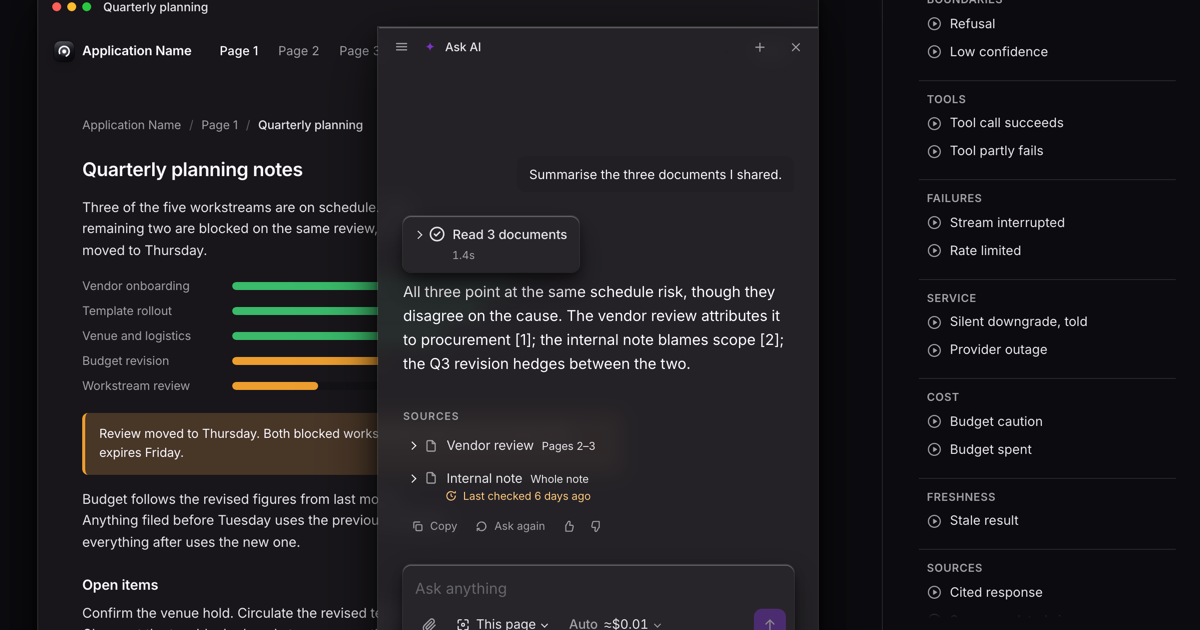
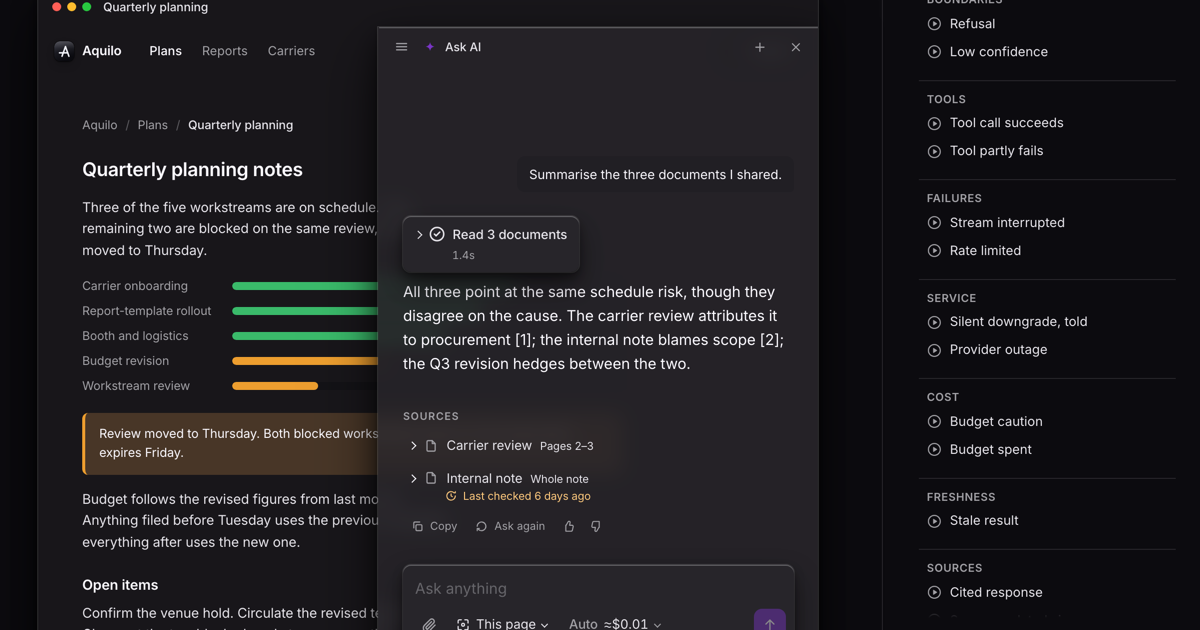
Name the universe: Northbound and Aquilo, with the wind-stroke mark
The host becomes Aquilo, Northbound's internal planning tool: window
title, sidebar identity (Northbound), breadcrumb Aquilo / Plans /
Quarterly planning, nav Plans / Reports / Carriers, the Carriers page
as a carrier directory. Freight nouns sweep everywhere the demo means
freight partners — carrier review, carrier quotes, carrier
onboarding — across the opener, scenarios, fixtures, sidebar threads,
and the workstream chart. Survivors, judged by sentence: the print
supplier's vendor quote in the cited-response scenarios, model-vendor
prose in reducer and lab comments, in-document Page 2 locators, and
the invisible src-vendor id.

The tile's orb-ring glyph gives way to the Aquilo mark — a geometric
A whose crossbar overshoots left as a single wind stroke — on the
same plate, in the tile's own hardware ink (the plate is always dark;
inheriting theme ink would go illegible in light). Both tiles are the
one component. OG image regenerated on the finished universe; sidebar
width floor, sources grammar, separator rule, and fold re-verified
with the longer strings at drawer and mobile widths.

diff --git a/apps/docs/src/App.tsx b/apps/docs/src/App.tsx
@@ -65,30 +65,30 @@ type View = 'full' | 'drawer' | 'mobile'
  */
 const MOCK_PAGES = [
   {
-    tab: 'Page 1',
+    tab: 'Plans',
     doc: 'Quarterly planning',
     ladder: [
       { id: 'page', label: 'This page', summary: 'Quarterly planning — the plan and its 4 linked notes', itemCount: 5 },
       { id: 'section', label: 'Plans', summary: 'Everything filed under Plans', itemCount: 12 },
-      { id: 'all', label: 'Everything', summary: 'All of Application Name', itemCount: 48 },
+      { id: 'all', label: 'Everything', summary: 'All of Aquilo', itemCount: 48 },
     ],
   },
   {
-    tab: 'Page 2',
+    tab: 'Reports',
     doc: 'Reports review',
     ladder: [
       { id: 'page', label: 'This page', summary: 'Reports review — the summary and its 2 appendices', itemCount: 3 },
       { id: 'section', label: 'Reports', summary: 'Everything filed under Reports', itemCount: 9 },
-      { id: 'all', label: 'Everything', summary: 'All of Application Name', itemCount: 48 },
+      { id: 'all', label: 'Everything', summary: 'All of Aquilo', itemCount: 48 },
     ],
   },
   {
-    tab: 'Page 3',
-    doc: 'Library index',
+    tab: 'Carriers',
+    doc: 'Carrier directory',
     ladder: [
-      { id: 'page', label: 'This page', summary: 'Library index — the catalogue itself', itemCount: 1 },
-      { id: 'section', label: 'Library', summary: 'Everything filed under Library', itemCount: 27 },
-      { id: 'all', label: 'Everything', summary: 'All of Application Name', itemCount: 48 },
+      { id: 'page', label: 'This page', summary: 'Carrier directory — the directory itself', itemCount: 1 },
+      { id: 'section', label: 'Carriers', summary: 'Everything filed under Carriers', itemCount: 27 },
+      { id: 'all', label: 'Everything', summary: 'All of Aquilo', itemCount: 48 },
     ],
   },
 ] as const
@@ -419,7 +419,7 @@ function AppCore({
              APPLICATION. (A live thread-title version was tried here and
              read as odd chrome — the conversation's name belongs to inner
              surfaces, and the phone header will take it.) */}
-          <span className="cfg__frame-title">Application Name</span>
+          <span className="cfg__frame-title">Aquilo</span>
         </div>
       )}
 
@@ -519,8 +519,14 @@ function AppCore({
   )
 }
 
-/** The B2 orb-ring tile — the mark Lucet tried on and set aside. The
- * fake universe's ONE brand: every container is the same product. */
+/** THE AQUILO MARK on the universe's ONE tile: a geometric A whose
+ * crossbar overshoots left as a single wind stroke. The plate and its
+ * sheen stay from the B2 treatment; only the glyph changed. Set
+ * dressing, one colour — the mark wears the tile's own hardware ink
+ * (the literal the orb-ring wore before it), because the plate is
+ * always dark and inheriting the theme's ink would go illegible in
+ * light. Every container shows the same product, so both tiles are
+ * this one component. */
 function MockBrandMark({ idp = 'fbm' }: { idp?: string }) {
   return (
     <svg className="cfg__mock-logo" viewBox="0 0 96 96">
@@ -535,33 +541,23 @@ function MockBrandMark({ idp = 'fbm' }: { idp?: string }) {
           <stop offset="0.38" stopColor="#fff" stopOpacity="0.02" />
           <stop offset="0.62" stopColor="#fff" stopOpacity="0" />
         </linearGradient>
-        <radialGradient id={`${idp}-h`}>
-          <stop offset="0" stopColor="#fff" stopOpacity="0.4" />
-          <stop offset="1" stopColor="#fff" stopOpacity="0" />
-        </radialGradient>
-        <radialGradient id={`${idp}-c`}>
-          <stop offset="0.6" stopColor="#fff" />
-          <stop offset="1" stopColor="#DDE0EC" />
-        </radialGradient>
         <clipPath id={`${idp}-k`}>
           <rect width="96" height="96" rx="27" />
         </clipPath>
       </defs>
       <rect width="96" height="96" rx="27" fill={`url(#${idp}-p)`} />
       <g clipPath={`url(#${idp}-k)`}>
-        <circle cx="48" cy="49" r="26" fill={`url(#${idp}-h)`} />
-        <circle
-          cx="48"
-          cy="49"
-          r="24"
+        <g
+          transform="translate(18 12.25) scale(3)"
           fill="none"
           stroke="#F4F5FB"
-          strokeWidth="7.6"
-          strokeDasharray="112 39"
+          strokeWidth="2.4"
           strokeLinecap="round"
-          transform="rotate(156 48 49)"
-        />
-        <circle cx="48" cy="49" r="9.5" fill={`url(#${idp}-c)`} />
+          strokeLinejoin="round"
+        >
+          <path d="M6.5 20 L12 4.5 L17.5 20" />
+          <path d="M2.5 14.5 H15.55" />
+        </g>
         <rect width="96" height="96" rx="27" fill={`url(#${idp}-s)`} />
       </g>
     </svg>
@@ -597,7 +593,7 @@ function MockHistory() {
       <div className="cfg__history-group">Earlier</div>
       {(
         [
-          ['Compare the two vendor quotes', 'Tue · 16:02'],
+          ['Compare the two carrier quotes', 'Tue · 16:02'],
           ['Rename the workstreams', 'Mon · 11:30'],
           ['Last week\u2019s review notes', 'Fri · 15:45'],
         ] as const
@@ -657,7 +653,7 @@ function PhoneNav({
         ) ||
         /* An empty thread is the APP'S home screen, so the app's name —
            the title becomes a conversation's only once one exists. */
-        'Application Name'
+        'Aquilo'
   return (
     <div className="cfg__frame-bar cfg__phone-bar">
       <details className="cfg__dmenu">
@@ -720,7 +716,7 @@ function MockDocument({ page = 0 }: { page?: number }) {
   return (
     <div className="cfg__mock-doc" aria-hidden>
       <div className="cfg__mock-nav">
-        <span>Application Name</span>
+        <span>Aquilo</span>
         <span className="cfg__mock-sep">/</span>
         <span>{p.tab}</span>
         <span className="cfg__mock-sep">/</span>
@@ -739,9 +735,9 @@ function MockDocument({ page = 0 }: { page?: number }) {
       <div className="cfg__mock-chart">
         {(
           [
-            ['Vendor onboarding', 72, 'ok'],
-            ['Template rollout', 64, 'ok'],
-            ['Venue and logistics', 55, 'ok'],
+            ['Carrier onboarding', 72, 'ok'],
+            ['Report-template rollout', 64, 'ok'],
+            ['Booth and logistics', 55, 'ok'],
             ['Budget revision', 38, 'blocked'],
             ['Workstream review', 22, 'blocked'],
           ] as const
@@ -1161,7 +1157,7 @@ export function App() {
                     <span className="cfg__side-brand">
                       <span className="cfg__side-brand-id" aria-hidden>
                         <MockBrandMark />
-                        <span className="cfg__side-brand-name">Application Name</span>
+                        <span className="cfg__side-brand-name">Northbound</span>
                       </span>
                       <button
                         type="button"
@@ -1205,7 +1201,7 @@ export function App() {
                       <div className="cfg__side-row" data-active>Quarterly planning</div>
                       <div className="cfg__side-row">Draft the kickoff note</div>
                       <div className="cfg__side-group">Earlier</div>
-                      <div className="cfg__side-row">Compare the two vendor quotes</div>
+                      <div className="cfg__side-row">Compare the two carrier quotes</div>
                       <div className="cfg__side-row">Rename the workstreams</div>
                       <div className="cfg__side-row">Last week&rsquo;s review notes</div>
                     </div>
@@ -1267,7 +1263,7 @@ export function App() {
               aria-label="The running app, as a drawer"
             >
               {/* The host application's own chrome. The brand is REAL but
-                  nobody's — the B2 orb-ring tile Lucet itself tried on and
+                  nobody's — the Aquilo wind-stroke A on the plated tile Lucet
                   set aside — and the words say what they are: a name-shaped
                   hole and three page-shaped holes. One control is live. */}
               {/* TWO layers, not one: the OS's window (traffic lights and
@@ -1287,7 +1283,7 @@ export function App() {
               <div className="cfg__mock-bar">
                 <span className="cfg__mock-brand" aria-hidden>
                   <MockBrandMark />
-                  Application Name
+                  Aquilo
                 </span>
                 {/* REAL navigation now: clicking a page moves the ground
                     under the scope, and the scope follows — saying so.

diff --git a/packages/core/src/scenarios/index.ts b/packages/core/src/scenarios/index.ts
@@ -128,7 +128,7 @@ export const toolSuccess = defineScenario({
       outcome: 'succeeded',
       detail: '3 of 3 sources returned',
       args: '{ "query": "sources flagged this week", "limit": 3 }',
-      result: '{ "returned": 3, "sources": ["Q3 revision", "site survey", "vendor quote"] }',
+      result: '{ "returned": 3, "sources": ["Q3 revision", "site survey", "carrier quote"] }',
     },
     { type: 'say', text: 'All three have been updated since you flagged them, the most recent one yesterday.' },
     { type: 'complete' },
@@ -151,7 +151,7 @@ export const toolPartialFailure = defineScenario({
       outcome: 'partial',
       detail: '2 of 3 sources returned. Timed out on the third.',
       args: '{ "query": "sources flagged this week", "limit": 3 }',
-      result: '{ "returned": 2, "timed_out": ["vendor quote"], "retryable": true }',
+      result: '{ "returned": 2, "timed_out": ["carrier quote"], "retryable": true }',
     },
     {
       type: 'say',
@@ -165,16 +165,16 @@ export const toolPartialFailure = defineScenario({
     { type: 'wait', ms: 250 },
     {
       type: 'tool',
-      name: 'Retried the vendor quote',
+      name: 'Retried the carrier quote',
       ms: 1100,
       outcome: 'succeeded',
       detail: '1 source returned',
-      args: '{ "query": "vendor quote", "limit": 1 }',
+      args: '{ "query": "carrier quote", "limit": 1 }',
       result: '{ "returned": 1, "timed_out": [] }',
     },
     {
       type: 'say',
-      text: 'The vendor quote came back this time, and it has changed too — its totals moved with the revised delivery table. All three of your flagged sources are now confirmed current as of this check; you are looking at the full picture.',
+      text: 'The carrier quote came back this time, and it has changed too — its totals moved with the revised delivery table. All three of your flagged sources are now confirmed current as of this check; you are looking at the full picture.',
     },
     { type: 'usage', tokens: 410, costUsd: 0.0061 },
     { type: 'complete' },
@@ -492,7 +492,7 @@ export const scopeLadder = defineScenario({
         {
           id: 'all',
           label: 'Everything',
-          summary: 'All of Application Name',
+          summary: 'All of Aquilo',
           itemCount: 48,
         },
       ],
@@ -543,7 +543,7 @@ export const scopeMoved = defineScenario({
         {
           id: 'all',
           label: 'Everything',
-          summary: 'All of Application Name',
+          summary: 'All of Aquilo',
           itemCount: 48,
         },
       ],
@@ -574,7 +574,7 @@ export const scopeMoved = defineScenario({
         {
           id: 'all',
           label: 'Everything',
-          summary: 'All of Application Name',
+          summary: 'All of Aquilo',
           itemCount: 48,
         },
       ],

diff --git a/apps/docs/src/opener.ts b/apps/docs/src/opener.ts
@@ -35,7 +35,7 @@ export const OPENER_EVENTS: readonly LucetEvent[] = [
     messageId: 'rm_prev',
     partId: 'rm_prev_x',
     delta:
-      'Two of the three. The vendor review picked up a revised delivery table on Friday — the procurement dates moved out by a week. The internal note added a paragraph on scope late Monday. The Q3 revision has not changed since it was filed; if you want, I can re-check all three against their sources before you circulate anything.',
+      'Two of the three. The carrier review picked up a revised delivery table on Friday — the procurement dates moved out by a week. The internal note added a paragraph on scope late Monday. The Q3 revision has not changed since it was filed; if you want, I can re-check all three against their sources before you circulate anything.',
   },
   { type: 'response/settled', messageId: 'rm_prev', status: 'complete', reason: null },
   {
@@ -59,7 +59,7 @@ export const OPENER_EVENTS: readonly LucetEvent[] = [
       status: 'succeeded',
       detail: '1.4s',
       args: '{ "scope": "attachments", "count": 3 }',
-      result: '{ "read": ["vendor-review", "internal-note", "q3-revision"] }',
+      result: '{ "read": ["carrier-review", "internal-note", "q3-revision"] }',
     },
   },
   { type: 'part/added', messageId: 'rm_open', part: { kind: 'text', id: 'rm_open_x', text: '' } },
@@ -68,7 +68,7 @@ export const OPENER_EVENTS: readonly LucetEvent[] = [
     messageId: 'rm_open',
     partId: 'rm_open_x',
     delta:
-      'All three point at the same schedule risk, though they disagree on the cause. The vendor review attributes it to procurement [1]; the internal note blames scope [2]; the Q3 revision hedges between the two.',
+      'All three point at the same schedule risk, though they disagree on the cause. The carrier review attributes it to procurement [1]; the internal note blames scope [2]; the Q3 revision hedges between the two.',
   },
   {
     type: 'part/added',
@@ -79,7 +79,7 @@ export const OPENER_EVENTS: readonly LucetEvent[] = [
       sources: [
         {
           id: 'src-vendor',
-          title: 'Vendor review',
+          title: 'Carrier review',
           location: 'Reports / Procurement',
           sourceKind: 'document',
           status: 'ok',

diff --git a/apps/docs/src/components-stage/ComponentsStage.tsx b/apps/docs/src/components-stage/ComponentsStage.tsx
@@ -378,7 +378,7 @@ const THREAD_FIXTURES: readonly Fixture[] = [
           status: 'partial',
           detail: '2 of 3 sources returned. Timed out on the third.',
           args: '{ "query": "sources flagged this week", "limit": 3 }',
-          result: '{ "returned": 2, "timed_out": ["vendor quote"], "retryable": true }',
+          result: '{ "returned": 2, "timed_out": ["carrier quote"], "retryable": true }',
         },
         reply: 'Two of the three have changed. The third did not come back in time, so this is not the full picture.',
       }),
@@ -388,7 +388,7 @@ const THREAD_FIXTURES: readonly Fixture[] = [
     label: 'A tool that failed, with nothing to show',
     note: 'No result came back, so there is no receipt to open on that side — and no payload at all means no chevron: a disclosure over an empty body is a dead promise, and this library has shipped its last one.',
     events: [
-      ...turn(1, 'Check the vendor quote.', {
+      ...turn(1, 'Check the carrier quote.', {
         tool: {
           name: 'Searched the documents',
           status: 'failed',
@@ -562,7 +562,7 @@ const CORE_FIXTURES: readonly Fixture[] = [
 const SCOPE_LADDER = [
   { id: 'page', label: 'This page', summary: 'Quarterly planning — the plan and its 4 linked notes', itemCount: 5 },
   { id: 'section', label: 'Plans', summary: 'Everything filed under Plans', itemCount: 12 },
-  { id: 'all', label: 'Everything', summary: 'All of Application Name', itemCount: 48 },
+  { id: 'all', label: 'Everything', summary: 'All of Aquilo', itemCount: 48 },
 ]
 
 const SCOPE_FIXTURES: readonly Fixture[] = [

diff --git a/apps/docs/src/konfabulator.css b/apps/docs/src/konfabulator.css
@@ -155,7 +155,7 @@ body {
   display: flex;
   flex-direction: column;
   /* Floored at content: the rail exists to show thread titles, and 215
-     is where 'Compare the two vendor quotes' renders whole (the dial in
+     is where 'Compare the two carrier quotes' renders whole (the dial in
      the calc is the future density axis; constant 1 today). */
   inline-size: max(215px, calc(208px * var(--lucet-density, 1)));
   flex-shrink: 0;
@@ -1191,7 +1191,7 @@ body {
   font-weight: 600;
   letter-spacing: -0.01em;
 }
-/* The B2 tile: the orb-ring mark Lucet tried on and set aside — real
+/* The B2 tile, now wearing the Aquilo wind-stroke A — real
    enough to sell the host, and deliberately nobody's. */
 .cfg__mock-logo {
   inline-size: 20px;

diff --git a/docs/README-draft.md b/docs/README-draft.md
@@ -48,9 +48,4 @@ React today, adapters welcome, the core is yours to wrap.
 **https://lucet.design** — one persistent interface with a state
 trigger rail; click a state and it happens in the running thread.
 
-<!-- SLOT: UNIVERSE — if the demo universe is renamed (product name,
-     page names, document titles), the docs screenshots and copy
-     referenced above update in the same pass; nothing else in this
-     file depends on it. -->
-
 MIT.
